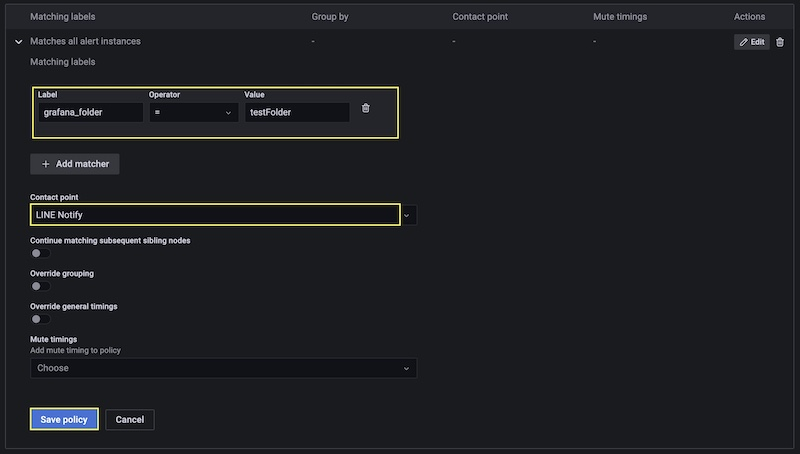
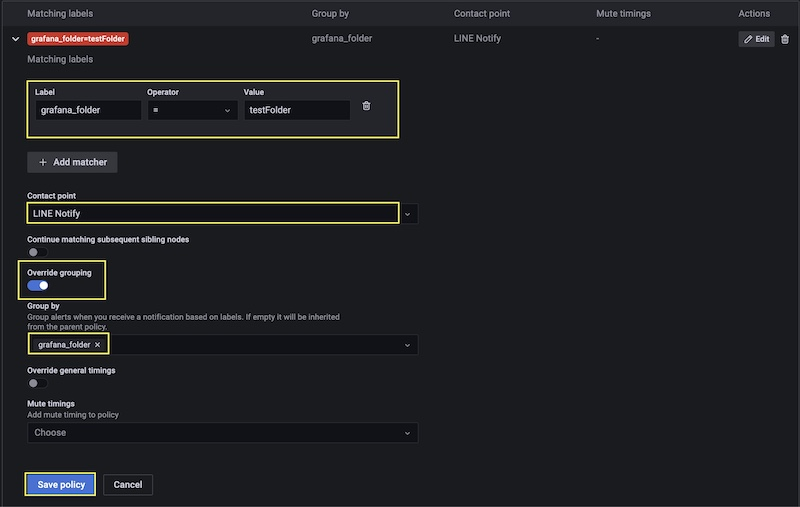
update

diff --git a/docs/農業/活用例/SORACOM/アラート/send_line_notify_temp_humi.md b/docs/農業/活用例/SORACOM/アラート/send_line_notify_temp_humi.md
@@ -13,47 +13,120 @@
 
 - [[Line Notifyへのアラート事前設定]](../アラート/send_line_notify.md)
 
-
+まずは、どのデバイスのどのセンサの値を取得し、閾値とどのように比較しアラートするのか、などの設定をしていきます。
+そのため、「Alerting」=> 「Alert rules」で「Alert rules」の設定ページを開きます。
 
 ![](../../../../images/agri/example/soracom/alart/alert_rules/alert_rules_1.jpg#center)
 
+その後「New alert rule」ボタンをクリックします。
+
 ![](../../../../images/agri/example/soracom/alart/alert_rules/alert_rules_2.jpg#center)
+
+以下のページが新規で開かれるため、各項目を設定していきましょう
 
 ![](../../../../images/agri/example/soracom/alart/alert_rules/alert_rules_3.jpg#center)
 
+初期の状態では、デフォルトで「A」「B」「C」のように名前がつけられております。
+
 ![](../../../../images/agri/example/soracom/alart/alert_rules/alert_rules_4.jpg#center)
+
+まずは、「A」の設定を以下のように変更しましょう。
+
 
 ![](../../../../images/agri/example/soracom/alart/alert_rules/alert_rules_5.jpg#center)
 
+|  項目<br>変更前  |  項目<br>変更後  | 説明  |
+| ---- | ---- | ---- |
+|  A  |  temp  | 温湿度センサの温度の値を取得するための命名  |
+|  Choose(未選択)  |  Air  | SORACOM Airで登録しているSIMカードの名前が表示されるため、対象の名前を選択します。  |
+|  Choose(未選択)  |  Standard  | 「Time series」などのグラフの表示がされます。  |
+|  Choose(未選択)  |  temp  | 今回は温度のセンサデータを取得するため対象の変数（temp）を選択しております。 |
+
+次に、「B」の設定を以下のように変更しましょう。こちらは、上記で設定した値に対して、どのような計算方法を適用させるかを決定します。
+
 ![](../../../../images/agri/example/soracom/alart/alert_rules/alert_rules_6.jpg#center)
+
+|  項目<br>変更前  |  項目<br>変更後  | 説明  |
+| ---- | ---- | ---- |
+|  B  |  temp reduce  | 温湿度センサの温度の値を取得するための命名  |
+|  Reduce(デフォルト)  |  Reduce  | 集約計算を行うことができます。  |
+|  Function(未選択)  |  Mean  | 「平均(Mean)を計算することができます。今回の設定では、特定の時間範囲における平均温度を計算します。  |
+|  Input(未選択)  |  temp  | 「A」の項目で設定した名前を選択します。 |
+|  Mode(未選択)  |  Strict  | 数値でない場合は NaN として扱う設定ができます。 |
+
+次に、「C」の設定を以下のように変更しましょう。
 
 ![](../../../../images/agri/example/soracom/alart/alert_rules/alert_rules_7.jpg#center)
 
+|  項目<br>変更前  |  項目<br>変更後  | 説明  |
+| ---- | ---- | ---- |
+|  C  |  Condition  | 閾値などの比較する対象の状態を設定するためConditionという名前に設定しております。  |
+|  Input(未選択) |  temp reduce  | 「B」で設定した名前を選択します。  |
+|  ---  |  「IS BELOW」「24」  | 温度が24度以下の時にアラート通知をしたいため、このように設定します。  |
+
+「Preview」ボタンをクリックすることで、今回の設定では24度以下の場合アラートを出すような設定をしたいため、赤い色で「Firing」と表示されます。（「Status」が「Normal」から「Firing」になる。）
+
 ![](../../../../images/agri/example/soracom/alart/alert_rules/alert_rules_8.jpg#center)
+
+次に「Alert evaluation behavior」の設定をしていきます。
 
 ![](../../../../images/agri/example/soracom/alart/alert_rules/alert_rules_9.jpg#center)
 
+|  項目  |  説明  |
+| ---- | ---- | 
+|  [Evaluate every]  | 5m: 5分を表し、こちらが評価間隔になります。 | 
+|  [for]  |  0： Alert が作成されるまでの待機時間です。「0」を入力すると、Alert rule を満たすとすぐに (0 秒で) Alert が作成されます。 | 
+
+
+次に、「Add details for your alert」の設定をしていきます。
+
 ![](../../../../images/agri/example/soracom/alart/alert_rules/alert_rules_10.jpg#center)
+
+|  項目  |  説明  |
+| ---- | ---- | 
+|  [Rule name]  | Alert rule の名前です。 | 
+|  [Folder]  |  Alert rule を保存する Folderの名前です。 | 
+|  [Group]  | Alert rule の Group の名前です。 | 
+
+設定が完了したら、「Save」ボタンをクリックして保存します。ここまでで「Alert rules」の設定は一旦完了になります。
 
 ![](../../../../images/agri/example/soracom/alart/alert_rules/alert_rules_11.jpg#center)
 
+次に「Contact points」の設定をしていきます。「New contact point」ボタンをクリックして、新規で送信先を決定していきましょう。
+
 ![](../../../../images/agri/example/soracom/alart/alert_rules/alert_rules_12.jpg#center)
+
+今回は「LINE Notify」を使用しますので、「Contact point type」の項目を「LINE」に設定します。
+「Token」に[[Line Notifyへのアラート事前設定]](../アラート/send_line_notify.md)で設定した「Token」文字列を入力します。2ヶ所の入力後に「Test」ボタンをクリックして、テスト通知を行います。
 
 ![](../../../../images/agri/example/soracom/alart/alert_rules/alert_rules_13.jpg#center)
 
+「Send test notification」ボタンをクリックすると、LINE Notifyに通知を送ることができます。
+
 ![](../../../../images/agri/example/soracom/alart/alert_rules/alert_rules_14.jpg#center)
+
+以下のように、手動テストによって通知が送られていることが確認できます。
 
 ![](../../../../images/agri/example/soracom/alart/alert_rules/alert_rules_15.jpg#center)
 
+次に、「Notification policies」の設定を行います。「Notification policies」の項目を選択して、「New policy」ボタンをクリックします。
+
 ![](../../../../images/agri/example/soracom/alart/alert_rules/alert_rules_16.jpg#center)
+
+デフォルトの状態では、Root policyで設定する設定が適用されます。
+![](../../../../images/agri/example/soracom/alart/alert_rules/alert_rules_19.jpg#center)
+
+今回は「Add matcher」をクリックして特定のフォルダに属している場合にのみ、アラートルールが適用設定していきます。
 
 ![](../../../../images/agri/example/soracom/alart/alert_rules/alert_rules_17.jpg#center)
 
+以下の設定では、「grafana_folder = testFolder」という条件を設定しておりますが、SORACOM Lagoonで管理されているダッシュボードが「testFolder」というフォルダに属している場合にのみ、アラートルールが適用されることを意味しています。（SORACOM Lagoonはgrafanaをベースにしているため）つまり、このルールにマッチしたアラートが発生したとき、設定された連絡先（この場合はLINE Notify）に通知が送られます。また、「Override grouping」がオンになっている場合は、このアラートポリシーで設定された「Group by」の条件が優先され、親ポリシーのグループ化設定は無視されます。
+
 ![](../../../../images/agri/example/soracom/alart/alert_rules/alert_rules_18.jpg#center)
 
-![](../../../../images/agri/example/soracom/alart/alert_rules/alert_rules_19.jpg#center)
+「Save policy」ボタンをクリックして、完了です。
+ここまでで、大まかなアラート設定は完了できました。
 
-![](../../../../images/agri/example/soracom/alart/alert_rules/alert_rules_20.jpg#center)
 
 
 以下のSORACOMのドキュメンテーションが大変参考になります。
